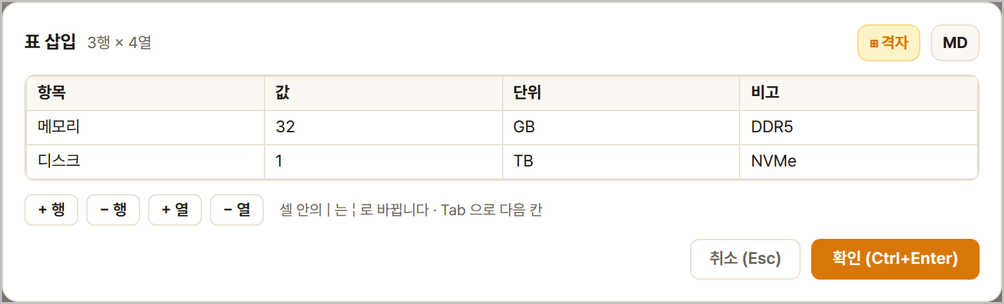
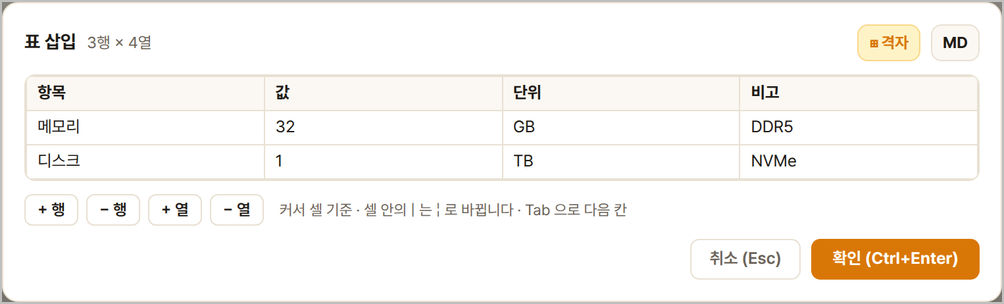
표 팝업: 행·열 추가·삭제를 커서 셀 기준으로 (#505)
* 표 팝업: 행·열 추가·삭제를 커서 셀 기준으로

사용자 요청: +행 = 커서 행 아래에 추가, −행 = 커서 행 삭제, +열 = 커서 열
오른쪽에 추가, −열 = 커서 열 삭제. 셀 onFocus 로 커서를 추적하고 조작 뒤
같은 자리에 포커스를 돌려준다. 머리글 행·마지막 데이터 행·마지막 2열은
지우지 않는다(버튼 비활성 + 툴팁).

- 브라우저 검증 6항목 추가(guide03-table.mjs 19항목) · 가이드 03 문구·캡처
  갱신 · rich-node-content P5 · 카탈로그 e2e271 보강 · 219차

Claude-Session: https://claude.ai/code/session_01PHMCTbMKMt1Nq2yNJHcjEs

* 문서: 카탈로그 e2e271 보강 · 219차

Claude-Session: https://claude.ai/code/session_01PHMCTbMKMt1Nq2yNJHcjEs

* 문서: 카탈로그 차수 220차로 (219차는 e2e272 가 사용)

Claude-Session: https://claude.ai/code/session_01PHMCTbMKMt1Nq2yNJHcjEs

---------

Changed region(s): [[0.2779, 0.6513, 0.6175, 0.7105]]

diff --git a/apps/frontend/src/editor/node-renderer/TableDialog.tsx b/apps/frontend/src/editor/node-renderer/TableDialog.tsx
@@ -206,6 +206,16 @@ export function TableDialog({
   const [mdError, setMdError] = useState<string | null>(null);
   const firstRef = useRef<HTMLInputElement | null>(null);
   const mdRef = useRef<HTMLTextAreaElement | null>(null);
+  // 커서가 있는 셀 — 행·열 추가/삭제의 기준 (r=-1 은 머리글). 2026-09-17
+  // 사용자 요청: +행 = 커서 행 아래, −행 = 커서 행, +열 = 커서 열 오른쪽, −열 = 커서 열
+  const [cursor, setCursor] = useState<{ r: number; c: number }>({ r: -1, c: 0 });
+  const gridRef = useRef<HTMLTableElement | null>(null);
+  const focusCell = (r: number, c: number) => {
+    window.setTimeout(() => {
+      const el = gridRef.current?.querySelector<HTMLInputElement>(`[data-table-cell="${r + 1}x${c + 1}"]`);
+      el?.focus();
+    }, 0);
+  };
 
   useEffect(() => { window.setTimeout(() => firstRef.current?.focus(), 0); }, []);
 
@@ -214,12 +224,35 @@ export function TableDialog({
     if (r < 0) setHeaders(headers.map((h, i) => (i === c ? v : h)));
     else setRows(rows.map((row, i) => (i === r ? row.map((x, j) => (j === c ? v : x)) : row)));
   };
-  const addRow = () => setRows([...rows, Array(cols).fill('')]);
-  const delRow = () => { if (rows.length > 1) setRows(rows.slice(0, -1)); };
-  const addCol = () => { setHeaders([...headers, `열${cols + 1}`]); setRows(rows.map((r) => [...r, ''])); };
+  // 커서 행 아래에 행 추가 (머리글에 있으면 맨 위 데이터 행으로)
+  const addRow = () => {
+    const at = Math.min(rows.length, cursor.r + 1);
+    setRows([...rows.slice(0, at), Array(cols).fill(''), ...rows.slice(at)]);
+    focusCell(at, cursor.c);
+  };
+  // 커서 행 삭제 (머리글·마지막 남은 데이터 행은 지우지 않는다)
+  const canDelRow = cursor.r >= 0 && rows.length > 1;
+  const delRow = () => {
+    if (!canDelRow) return;
+    setRows(rows.filter((_, i) => i !== cursor.r));
+    const nr = Math.min(cursor.r, rows.length - 2);
+    setCursor({ r: nr, c: cursor.c }); focusCell(nr, cursor.c);
+  };
+  // 커서 열 오른쪽에 열 추가
+  const addCol = () => {
+    const at = Math.min(cols, cursor.c + 1);
+    setHeaders([...headers.slice(0, at), `열${cols + 1}`, ...headers.slice(at)]);
+    setRows(rows.map((r) => [...r.slice(0, at), '', ...r.slice(at)]));
+    setCursor({ r: cursor.r, c: at }); focusCell(cursor.r, at);
+  };
+  // 커서 열 삭제 (2열은 남긴다)
+  const canDelCol = cols > TABLE_MIN_COLS;
   const delCol = () => {
-    if (cols <= TABLE_MIN_COLS) return;
-    setHeaders(headers.slice(0, -1)); setRows(rows.map((r) => r.slice(0, -1)));
+    if (!canDelCol) return;
+    setHeaders(headers.filter((_, i) => i !== cursor.c));
+    setRows(rows.map((r) => r.filter((_, i) => i !== cursor.c)));
+    const nc = Math.min(cursor.c, cols - 2);
+    setCursor({ r: cursor.r, c: nc }); focusCell(cursor.r, nc);
   };
 
   // 격자 → MD (원문 보기로 전환)
@@ -278,6 +311,7 @@ export function TableDialog({
       data-table-cell={`${r + 1}x${c + 1}`}
       value={value}
       onChange={(e) => setCell(r, c, e.target.value)}
+      onFocus={() => setCursor({ r, c })}
       placeholder={isHead ? '머리글' : ''}
       style={{
         width: '100%', minWidth: 72, boxSizing: 'border-box', padding: '5px 8px',
@@ -331,7 +365,7 @@ export function TableDialog({
         {view === 'grid' ? (
           <>
             <div style={{ overflow: 'auto', maxHeight: '55vh', border: `1px solid ${t.border}`, borderRadius: 8 }}>
-              <table data-testid="table-dialog-grid" style={{ borderCollapse: 'collapse', width: '100%' }}>
+              <table ref={gridRef} data-testid="table-dialog-grid" style={{ borderCollapse: 'collapse', width: '100%' }}>
                 <thead>
                   <tr style={{ background: t.surfaceAlt ?? 'rgba(0,0,0,0.05)' }}>
                     {headers.map((h, c) => (
@@ -355,12 +389,12 @@ export function TableDialog({
               </table>
             </div>
             <div style={{ display: 'flex', gap: 6, alignItems: 'center' }}>
-              {smallBtn('+ 행', addRow, '맨 아래에 행 추가')}
-              {smallBtn('− 행', delRow, '맨 아래 행 삭제', rows.length <= 1)}
-              {smallBtn('+ 열', addCol, '맨 오른쪽에 열 추가')}
-              {smallBtn('− 열', delCol, '맨 오른쪽 열 삭제', cols <= TABLE_MIN_COLS)}
+              {smallBtn('+ 행', addRow, '커서가 있는 행 아래에 행 추가')}
+              {smallBtn('− 행', delRow, canDelRow ? '커서가 있는 행 삭제' : '머리글 행과 마지막 데이터 행은 지울 수 없습니다', !canDelRow)}
+              {smallBtn('+ 열', addCol, '커서가 있는 열 오른쪽에 열 추가')}
+              {smallBtn('− 열', delCol, canDelCol ? '커서가 있는 열 삭제' : '열은 2개 이상이어야 합니다', !canDelCol)}
               <span style={{ fontSize: 11.5, color: t.textMuted, marginLeft: 6 }}>
-                셀 안의 | 는 ¦ 로 바뀝니다 · Tab 으로 다음 칸
+                커서 셀 기준 · 셀 안의 | 는 ¦ 로 바뀝니다 · Tab 으로 다음 칸
               </span>
             </div>
           </>

diff --git a/docs/05-implementation/test-catalog.md b/docs/05-implementation/test-catalog.md
@@ -122,7 +122,7 @@
 | e2e268 | **여러 중심주제 2단계 — 편집: 중심 추가·끌어 옮기기·삭제·묶기·올리기, 둘째 중심 안의 노드 편집** (2026-09-15, 1단계 #490 후속. 선언 블록 위치·머리말·묶기/올리기의 **세부**는 mmd 표준 세션에서 정하는 중 — 이 PR 의 묶기/올리기는 `mindmap-markdown-alignment.md` A-1 의 문구("하나의 중심주제로 묶기"·"첫 번째 가지를 중심으로 올리기")를 앱 트리 편집으로 구현한 것이고, 표준이 정해지면 세부를 맞춘다) | 구성: `apps/frontend` `src/stores/centers.test.ts` **81항목** — 읽기 헬퍼 11(찾기·깊이·부모·색인·경로·중심 판정·최상위 선택) · 둘째 중심 안의 추가/형제/상위/삭제/일괄/appendChildren 11 · 중심 건너 옮기기 15(child·before·center root·moveNode·다중) · 중심 추가/자리 저장(반올림)/자리 지움/첫 중심 자리 거부/중심 삭제/되돌리기/일괄 삭제 9 · 묶기(첫 중심으로·둘째 중심으로 — 옛 첫 중심은 새 id 가지)·올리기(id 유지·손자·중심 루트 거부·둘째 중심 가지)·되돌리기 20 · 접기/모두 접기·펼치기/좌우/레벨 레이아웃/루트 레이아웃 8 · Codex 지적 3건(레벨 레이아웃 폴백은 그 중심의 가지에서 · 묶기 후 전역 레이아웃 동기화·되돌리기 · 레이아웃 탭 중심 스코프) 7. 기존 `moveNodesRelative.test.ts` 18 · `subtreeCollapse.test.ts` 7 회귀 PASS. 이 세션은 npm 레지스트리 403 이라 global tsc 로 CommonJS 컴파일 + zustand 스텁으로 돌렸다(CI 는 tsx). **브라우저 확인(할 일)**: ① 우상단 툴바 [중심 ▸ ◎] → 오른쪽 빈 자리에 "중심 주제" 가 생기고 선택된다 ② 그 루트를 끌면 드롭존 없이 따라오고 놓은 자리에 남는다(새로고침 후에도) ③ 그 루트의 + 로 가지를 붙이고 첫 중심의 노드를 그 가지 위로 끌어 옮긴다 ④ 1레벨 가지를 고르고 [↑] → 새 중심이 되고 하위가 가지가 된다 ⑤ 중심 루트를 고르고 [⇢] → 중심 하나로 묶인다, Ctrl+Z 로 돌아온다 ⑥ 둘째 중심 루트 + Del → 그 중심째 사라진다. | 08-layout §23.1 · 10-canvas §21.2 |
 | e2e267 | **홈페이지 기능·AI 메뉴 — `/function` · `/ai`** (2026-09-15 사용자 요청: "문구에 AI 를 포함 · 특장점은 6개로 하되 확장성 있게 · 기능(`/function`) 추가", 이어서 "AI 연동은 별도 메뉴로 빼자 — 기능에서는 AI 기능만, `/ai` 에서는 사상·C,D 차이") | 구성: **진짜 nginx**(배포 `nginx.conf` 그대로, SPA 폴백 포함) + **빌드본 dist** + **진짜 크로미움**. **43항목**. **A. 다섯 화면 공통 25** (`/`·`/function`·`/ai`·`/emm`·`/library`) 메뉴 **5개**(홈·기능·AI 연동·mmd 표준·지식창고) · 현재 메뉴 강조(`aria-current`)가 그 페이지 · `h1` 존재 · **콘솔 오류 0** · ★**390px 에서 가로 스크롤 0**(비교표는 `.tablewrap` 안에서만 구른다). **B. `/function` 5** 묶음 **6개** · 항목 **30개** · AI 묶음의 [자세히 보기] 가 `/ai` · **가이드 출처 6줄** · ★**`/function` 본문에 `OAuth`·`PAT`·`emm_` 가 없다**(붙이는 법은 `/ai` 몫이라는 사용자 결정을 글자로 고정한 것) . **C. `/ai` 11** 표 2개(도구 **6행** · 비교 **6행**) · 설명 카드 6장(사상 4 + 앱 안의 AI 2) · 본문에 *맵은 대화의 부산물이 아니라 결과물* · *되돌릴 수 없는 것은 AI 에게 주지 않는다* · *고른다* · *클라이언트* · *무기한* · *폐기* · `create_map` · `check_items`. **D. 길잡이 3** 메뉴 클릭으로 `/function` 이동(새로고침 없이) · [AI 연동 자세히 보기] 클릭으로 `/ai` · 이동 뒤 메뉴 강조도 따라온다. **되돌려 깨지는 것 확인** — `App.tsx` 의 `'/ai'` 줄만 빼고 다시 빌드하면 **10 FAIL**(`/ai` 가 홈으로 떨어진다), 되돌리면 43/43 PASS. **★ 내용은 지어내지 않았다** — `/function` 은 사용자 가이드에 장이 있는 기능만 적고 묶음마다 **어느 장에서 왔는지**를 화면에 적는다. `/ai` 의 도구 6개는 `apps/api/src/mcp/mcp-tools.ts` 의 배열, 사상은 `mcp-connector.md` §2-1·§2-3, C·D 비교표는 §9.2.1 을 옮긴 것이다(그 절에 역참조를 달았다 — 원본은 문서다). **확장성** — 카드 내용은 `src/content/{features,functions}.ts` 에 데이터로 있고 화면은 개수를 세지 않는다(3→2→1열). 항목을 더할 때 손대는 곳은 배열 하나다 | apps/site · 27a-paid-publish.md §0.4 ⑵ · mcp-connector.md §2-1·§2-3·§9.2.1 · e2e264 |
 | e2e272 | **헬스 감시 판정을 jq 로 — `status` 값을 JSON 으로 읽는다** (2026-09-17 사용자 요청 "jq 로 바꿔줘". 이전에는 `grep -q '"status":"ok"'` 문자열 매칭이라 공백 있는 JSON 은 정상인데 degraded 로, 중첩 필드의 `"status":"ok"` 는 degraded 인데 정상으로 잘못 봤다) | 구성: **가짜 헬스 엔드포인트 :3999**(python `http.server`, 경로마다 다른 응답) + `STATE_DIR` 을 임시 디렉터리로 두고 `scripts/health-watch.sh` 를 실제로 돌려 `state=` 출력을 본다. 메일 단계는 이 환경에 docker 가 없어 "메일 설정을 찾지 못했습니다" 로 끝난다(판정은 그 앞에서 끝나므로 무관 — 메일은 e2e153 이 지킨다). **jq 있음 10항목** ①`{"status":"ok"}` → ok ②공백·줄바꿈 있는 JSON → ok ③`status` 가 마지막 키 → ok ④`{"status":"degraded",missingTables}` → degraded ⑤★`{"status":"degraded","checks":{"db":{"status":"ok"}}}` → **degraded**(옛 grep 은 ok 였다) ⑥`status` 없는 JSON → degraded ⑦HTML 200 → degraded ⑧HTTP 503 → down ⑨404 → down ⑩닫힌 포트 → down. **jq 없음(폴백) 8항목** — `env -i PATH=<jq 없는 디렉터리>` 로 돌려 ①~④·⑥~⑧ 같은 결과, ⑤는 **ok**(폴백의 알려진 한계 — 런북 §2.2 에 jq 를 깔라고 적었다). **되돌려 깨지는 것 확인** — `origin/main` 의 옛 스크립트로 같은 서버를 치면 ② → `degraded`(정상인데 알림), ⑤ → `ok`(나쁜데 침묵). 새 스크립트는 둘 다 맞다. `bash -n` 통과 | runbook §2.2 · e2e153 |
-| e2e271 | **노드 표 삽입·수정 팝업 — 툴바 ⊞ 격자 → 표 팝업(격자/MD 보기) → 더블클릭·✎ 수정** (2026-09-17, 사용자 요청: "표도 아이콘으로 추가하여 … 10×10 격자 … 코드블럭 팝업창처럼 표 팝업창 … MD 표 형태로 볼 수 있도록 아이콘") | 구성: 단위 `src/editor/node-renderer/tableDialog.test.ts` **15항목**(emptyTable 최소 2×2 · buildMdTable 셀 정리(`|`→`¦`, 줄바꿈→공백) · spliceMdTable 줄 경계 · replaceMdTable 첫 표만·코드 펜스 안 파이프 무시·없으면 덧붙임 · 파서 왕복) + 브라우저 `scripts/doc-shots/guide03-table.mjs` **13항목**(vite + Playwright, 실제 앱): ① ⊞ → 10×10 격자, 3×4 위에서 라벨 "3행 × 4열" ② 팝업 격자 머리글 1 + 2행 × 4열 ③ MD 보기 원문 = `| 항목 | 값 | 단위 | 비고 |` + 구분선 + 데이터, MD 에서 고친 셀이 격자로 돌아올 때 반영 ④ 확인 → 편집창 원문에 표, 팝업 닫히면 툴바 복귀, 커밋 후 `[data-node-table]` 렌더 ⑤ 표 더블클릭 → "표 수정" 팝업 프리필, 저장 후 노드 표 갱신 ⑥ 편집 중 ⊞ 재클릭(표 있음) → 수정 팝업 ⑦ 아웃라인 보기 `[data-html-table-edit]` ✎ → 팝업 → 저장 → 행 텍스트 반영 ⑧ `{ }` 코드 팝업 → 펜스 삽입 → 코드 패널 렌더(매뉴얼 캡처). **구현** — `TableDialog.tsx`(팝업 + `TableGridPicker` + build/splice/replace/hasMdTable), `MarkToolbar` ⊞ 버튼(`onApply('table', {rows, cols})`, 격자가 편집창 위에 뜨도록 zIndex 30), `NodeRenderer`(tableDlg 상태·blur 가드·표 `<g data-node-table>` 더블클릭 + 투명 히트 rect — 없으면 격자선 사이 더블클릭이 노드 텍스트 편집으로 새어 나갔다), `OutlineEditorPane`(삽입·수정), `RichTextHtml`(✎ → replaceMdTable). **함정** — ⑤ 첫 실행에서 더블클릭이 팝업을 못 열었다: 표 내부는 격자선·글자뿐이라 히트 대상이 없어 아래 노드 박스가 받았다 → 투명 rect. ⑥ 표가 들어간 뒤 노드가 커지자 격자 선택기가 textarea 아래에 깔려 클릭이 막혔다 → 툴바 zIndex. 회귀: 프런트 `tsc -b` · `test:unit`(신규 포함) 통과. **범위 밖** — 칸반 카드 편집 툴바는 예전처럼 코드·체크·표 버튼이 동작하지 않는다(카드에서는 ✎ 로 수정) | rich-node-content §3 P5 · 03-노드-편집 · e2e57~59 · e2e63 |
+| e2e271 | **노드 표 삽입·수정 팝업 — 툴바 ⊞ 격자 → 표 팝업(격자/MD 보기) → 더블클릭·✎ 수정** (2026-09-17, 사용자 요청: "표도 아이콘으로 추가하여 … 10×10 격자 … 코드블럭 팝업창처럼 표 팝업창 … MD 표 형태로 볼 수 있도록 아이콘") | 구성: 단위 `src/editor/node-renderer/tableDialog.test.ts` **15항목**(emptyTable 최소 2×2 · buildMdTable 셀 정리(`|`→`¦`, 줄바꿈→공백) · spliceMdTable 줄 경계 · replaceMdTable 첫 표만·코드 펜스 안 파이프 무시·없으면 덧붙임 · 파서 왕복) + 브라우저 `scripts/doc-shots/guide03-table.mjs` **19항목**(220차에 6 추가)(vite + Playwright, 실제 앱): ① ⊞ → 10×10 격자, 3×4 위에서 라벨 "3행 × 4열" ② 팝업 격자 머리글 1 + 2행 × 4열 ②-b **행·열 버튼은 커서 셀 기준**(220차): 1행 2열에서 +행 → 2행이 빈 행·포커스 2x2, −행 → 그 행 삭제, 머리글 2열에서 +열 → 3열 신설·단위는 4열로, −열 → 삭제, 머리글에 커서면 −행 비활성 ③ MD 보기 원문 = `| 항목 | 값 | 단위 | 비고 |` + 구분선 + 데이터, MD 에서 고친 셀이 격자로 돌아올 때 반영 ④ 확인 → 편집창 원문에 표, 팝업 닫히면 툴바 복귀, 커밋 후 `[data-node-table]` 렌더 ⑤ 표 더블클릭 → "표 수정" 팝업 프리필, 저장 후 노드 표 갱신 ⑥ 편집 중 ⊞ 재클릭(표 있음) → 수정 팝업 ⑦ 아웃라인 보기 `[data-html-table-edit]` ✎ → 팝업 → 저장 → 행 텍스트 반영 ⑧ `{ }` 코드 팝업 → 펜스 삽입 → 코드 패널 렌더(매뉴얼 캡처). **구현** — `TableDialog.tsx`(팝업 + `TableGridPicker` + build/splice/replace/hasMdTable), `MarkToolbar` ⊞ 버튼(`onApply('table', {rows, cols})`, 격자가 편집창 위에 뜨도록 zIndex 30), `NodeRenderer`(tableDlg 상태·blur 가드·표 `<g data-node-table>` 더블클릭 + 투명 히트 rect — 없으면 격자선 사이 더블클릭이 노드 텍스트 편집으로 새어 나갔다), `OutlineEditorPane`(삽입·수정), `RichTextHtml`(✎ → replaceMdTable). **함정** — ⑤ 첫 실행에서 더블클릭이 팝업을 못 열었다: 표 내부는 격자선·글자뿐이라 히트 대상이 없어 아래 노드 박스가 받았다 → 투명 rect. ⑥ 표가 들어간 뒤 노드가 커지자 격자 선택기가 textarea 아래에 깔려 클릭이 막혔다 → 툴바 zIndex. 회귀: 프런트 `tsc -b` · `test:unit`(신규 포함) 통과. **범위 밖** — 칸반 카드 편집 툴바는 예전처럼 코드·체크·표 버튼이 동작하지 않는다(카드에서는 ✎ 로 수정) | rich-node-content §3 P5 · 03-노드-편집 · e2e57~59 · e2e63 |
 | e2e270 | **지식창고 검색 — 이름뿐 아니라 맵 내용까지** (2026-09-17 사용자 요청: "지식창고는 내 문서함의 검색처럼 검색창을 추가하고, 검색하면 맵 이름뿐만 아니라 맵 내용에도 검색 내용이 있으면 검색에 포함하도록") | 구성: **진짜 PostgreSQL 16**(schema.sql + listed 델타) + **진짜 빌드본 API** + **진짜 nginx**(배포 `nginx.conf`) + **빌드본 dist** + **진짜 크로미움**. **총 99항목** = 서버 34 + 화면 31 + 여백 15 + 단위 19. **씨앗** — 저자 한 명, 상태가 다른 맵 8개(진열 4 · **안 나와야 할 것 4**: 비공개(보관)·진열 안 함·등록 취소·휴지통). 안 나와야 할 넷은 이름과 내용에 **일부러 검색어를 심었다**. **A. 서버 34** ① 검색 없으면 진열된 4개 + `matchCount` 없음 ② `q=회의` → 이름이 맞은 A + **내용만 맞은 B**(건수 3·1) ③ ★**새지 않는다** — 안 나와야 할 넷을 **검색어 2개 × 4맵 = 8번** 확인 ④ 응답에 색인 평문이 없고 주는 칸은 6개뿐 ⑤ `_`·`%` 가 패턴이 아니라 글자다 ⑥ 영문 대소문자 무시 · 공백뿐이면 검색 아님 ⑦ **검색 중에도 커서 페이지네이션**(두 쪽 합 = 한 번에 받은 것) ⑧ 거친 입력 5종(300자·패턴 문자만·**NUL**·HTML·SQL 조각) 모두 200 + 0줄 ⑨ 찾은 맵은 그 주소로 열리고, 비공개 맵 주소는 여전히 404. **B. 화면 31** 검색창·안내 문구 · 이름 강조(`<mark>`) · **내용 건수 뱃지**(`내용 3건`) · `?q=` 가 주소에 남고 그 주소를 새로 열면 같은 결과 · 못 찾았을 때 문구가 "아직 진열된 맵이 없습니다" 와 **다르다** · [전체 보기]·✕ 로 복귀 · ★ 안 나와야 할 넷이 **화면에도** 없다(검색어 5개) · **늦게 온 옛 답이 새 결과를 덮지 않는다**(빠른 타자) · 390px 가로 넘침 0. **C. 여백 15** 다섯 화면(`/`·`/function`·`/ai`·`/mmd`·`/library`) × 좌·우 여백 ≥16px · 가로 넘침 0. **D. 단위 19** `common/search-term.ts` — 제어문자 제거 · 공백/빈 말 · 100자 자르기 · ILIKE 이스케이프. **함정** — 그 파일의 제어문자 판정을 처음에 `/[\u0000-\u001F\u007F]/` 로 적었더니 편집 도구를 거치며 **이스케이프가 그 문자 자체로** 바뀌어 소스에 진짜 NUL 이 들어갔다(시험은 통과했지만 git 이 `Bin 0 -> 2326 bytes` 로 보았다). 코드포인트 비교(`c < 0x20 || c === 0x7f`)로 바꿔 그럴 자리를 없앴다 — e2e267 의 `\u3000` 과 같은 사고다. **되돌려 깨지는 것 확인** — `listListed` 가 `q` 를 무시하게 되돌리면 서버 34항목 중 **16 FAIL**, 되돌리면 34/34. **★ 고친 버그 둘 (둘 다 원래 있던 것)** ⑴ **NUL 한 글자로 500** — `?q=a%00b` 가 PostgreSQL `22021` 로 질의를 터뜨렸다. 지식창고 검색은 **비인증**이라 누구나 보낼 수 있었고, **문서함 검색도 같았다**(실측). 다듬는 규칙을 `common/search-term.ts` 한 벌로 모아 `MapsService.list`·`listShared`·`PublishService.listListed` 가 함께 쓴다 — 검색은 세 곳이지만 규칙은 한 벌이어야 한다. ⑵ **휴대폰에서 글이 화면 끝에 붙었다** — `.wrap` 과 겹쳐 쓴 칸(`hero`·`head`·`band`·`cta`)이 `padding: 44px 0 20px` 로 `.wrap` 의 좌우 20px 를 함께 지우고 있었다. 데스크톱에서는 `max-width` 로 가운데 정렬돼 안 보였고, e2e267 이 **가로 넘침만** 재서 통과했다 — 넘치지 않아도 붙어 있을 수 있다. 위아래만 주도록 고쳤다(다섯 화면 전부). **회귀** — API `test:og`·`test:table-ready`·`test:version-prune`·`test:schema-degrade`·`smoke` 전부 통과. `test:mcp` 의 `스텁: PRO_INSTALLED=false` 1건은 **내 변경을 치워도 실패한다**(이 환경 문제 · CI 에서는 통과). | api-spec.md GET /published · 27a-paid-publish.md §0.4 ⑵·⑶ · e2e264 · e2e267 |
 | e2e263 | **여러 줄 노드·블록 노드 MD 왕복 — 줄바꿈·인용문이 사라지지 않고 코드 노드가 깊어지지 않는다** (2026-09-15, 사용자 지적: "##8 하위는 원본은 줄바꿈되어 있는데 변환된 MD 는 한 줄", "인용문 표시도 사라졌다") | 구성: `packages/emm-parser` `test/node-lines.test.ts` **19항목** + `apps/frontend` `src/utils/importMapFile.test.ts` 에 **4항목** 추가(합계 16, Vite SSR 러너). **버그 ①** — 견출 아래 `>` 인용문은 'node' 배치에서 그 노드의 추가 줄이 되는데, 내보내기 `splitNodeBody` 가 첫 블록 앞의 줄을 모두 공백으로 이어 **한 줄 견출**로 써서 왕복 뒤 줄바꿈·인용문 표시가 사라졌다(앱은 메타데이터로 복원하지만 MD 본문은 손실). **버그 ②** — 코드 펜스로 시작하는 노드는 라벨 `### 코드` 를 견출로 써서 다시 읽으면 "코드" 노드가 끼어들어 왕복마다 한 단계 깊어졌다. **고침** — `serialize.ts`: 제목은 첫 줄, 나머지 줄은 제목 아래 `>` (빈 줄은 `>` 만, 행 끝 공백 없음); 루트만 `singleLine` 으로 예전처럼. 블록으로 시작하는 잎 노드(하위·노트·링크·사진 없음, depth>1)는 제목 줄 없이 블록만(`labelTitle`). `nodeHeadingText` 는 첫 줄이 되지만 옛 한 줄 파일도 `flatKey` 폴백으로 메타데이터와 짝지어진다(프런트 시험). **확인** — ① 견출+인용문(빈 줄 포함) 왕복 뒤 글자·트리 동일, 두 번 왕복 파일 동일 ② Shift+Enter 여러 줄(견출·리스트 항목) ③ 코드 펜스 잎 노드 라벨 없음·두 번 왕복 동일 ④ 표 잎 노드 ⑤ 하위 있는 블록 노드는 라벨 유지(예전 동작, 알려진 한계) ⑥ 가지는 라벨 유지 ⑦ 루트 한 줄. 사용자 시험 파일(`빈노드-불러오기-테스트.md`, 8절) 전체 왕복: 글자(줄바꿈 포함)·트리 동일, 두 번 왕복 동일. 회귀: 적합성 13/13(스냅숏 변화 없음) · 파서 단위 187 · API `test:mcp` 통과 · `sync:emm --check` 일치 · 프런트 `tsc -b` 통과. **알려진 한계** — 'note' 배치에서는 `>` 가 노트가 된다(예전과 같음). 블록으로 시작하고 하위가 있는 노드는 라벨 아래에 블록·하위가 형제로 읽힌다(앱은 메타데이터로 복원) | markdown-export §2 · e2e261 · e2e262 |
 
@@ -433,6 +433,9 @@
 > 겹쳐 보이지만 날짜와 함께 읽으면 유일하다. **고치지 말 것** — 그때의
 > 기록을 지금 규칙으로 고쳐 쓰면 없던 역사를 만드는 셈이다.
 
+- 2026-09-17 (220차): **e2e271 보강 — 표 팝업의 행·열 버튼을 커서 셀 기준으로**
+  (사용자 요청: +행=커서 행 아래 · −행=커서 행 · +열=커서 열 오른쪽 · −열=커서
+  열). 브라우저 6항목 추가(19), 가이드 03 문구·캡처 갱신.
 - 2026-09-17 (219차): **e2e272 — 헬스 감시 판정을 jq 로**. `health-watch.sh`
   가 `/v1/health` 의 `status` 를 문자열 grep 이 아니라 `jq -r .status` 로
   읽는다(jq 가 없으면 공백 허용 grep 폴백). 가짜 엔드포인트로 jq 있음 10 ·

diff --git a/docs/04-extensions/rich-node-content.md b/docs/04-extensions/rich-node-content.md
@@ -79,7 +79,7 @@ mmd 왕복: 블록 노드는 종류 라벨 견출(`표`/`코드`) + MD 블록으
 | P2 | ✅ **완료(2026-07)** — 노드 체크박스 렌더 + 클릭 토글. `mdCheck.ts`(체크 줄 파서·글리프 폭·원문 토글·마커 삽입) + sizeNodeForText(마커 제거·글리프 폭만큼 좁게 줄바꿈·폭 예약) + NodeRenderer(글리프 렌더·클릭=원문 `[ ]↔[x]` 토글, 항목 전 줄 들여쓰기) + 미니 툴바 ☑ 버튼(커서 줄 `- [ ] ` 토글, 맵·아웃라인 공용) + 뷰어 파리티(에디터가 계산한 래핑 줄 범위를 `pos.ck`로 베이크 — 뷰어는 읽기 전용 렌더). 코드 펜스 안의 `- [ ]` 줄은 체크로 취급하지 않음. 검증 e2e60 | 중 |
 | P3 | ✅ **완료(2026-07)** — MD 불러오기 배치 옵션 + A4 제한. `parseMarkdownToMap(md, title, { blockPlacement, stats })`: `'node'`면 인용문·코드 펜스·표·`- [x]`를 해당 위치 **노드 본문**에(펜스/파이프/체크 줄 그대로 — P1·P2 렌더가 그림), A4(2,500자·이미지 600자 환산) 초과 블록은 노트로 이동 + `stats.movedToNote`. **파서 기본은 `note`(하위 호환 — 적합성 코퍼스·parseEmm·mmd 왕복 유지), 앱 불러오기 UI 기본이 `node`**. EasyMindMap MD(메타데이터)는 항상 `note`(enrich 매칭 보호). UI: 새 맵 패널 "MD 블록 배치" 라디오(기억) + "A4 분량을 넘어 블록 N개를 노트로 옮겼습니다" 안내. 규칙 상세: markdown-export.md §1.0. 검증 e2e61 | 중 |
 | P4 | ✅ **완료(2026-07)** — 아웃라인·칸반·검색 표시 정합. 공용 `RichTextHtml.tsx`: `NodeRichText`(HTML 리치 렌더 — 코드 펜스=모노 패널(언어 라벨), `- [x]`=체크 글리프(**클릭 = 원문 토글**), 파이프 표=격자, 인라인 마크 고정색) + `flattenNodeText`(한 줄 요약 — 마커 대신 ☑/☐·⧉코드·⊞표). 적용: 아웃라인 행·칸반 카드/컬럼 헤더(NodeRichText), 에디터/뷰어 검색 결과 제목·경로, 뷰어 아웃라인 행, 인스펙터 선택 노드 요약(flatten). 검증 e2e63 | 소~중 |
-| P5 | ✅ **완료(2026-09-17)** — **표 팝업 편집기**(`TableDialog.tsx`, 코드의 CodeBlockDialog 와 같은 사용감). 툴바 ⊞ → `TableGridPicker`(10×10 격자, 최소 2×2) → 격자 크기의 빈 표를 커서 자리에 `spliceMdTable`, 팝업에서 셀 입력(머리글 강조 · `+/−` 행·열 · Tab 이동) · **⊞ 격자 ↔ MD 원문 보기 토글**(상단 맵/아웃라인 토글과 같은 모양, MD 는 `parseMdTable` 로 다시 읽어 격자에 반영). 수정 = 캔버스 표 더블클릭(`data-node-table`, 투명 히트 rect) · 편집 중 ⊞(표가 이미 있으면 `mode:'edit'`) · 아웃라인/칸반 표 ✎(`data-html-table-edit`, `RichTextHtml`) → `replaceMdTable`(코드 펜스 밖 첫 표만). 저장은 항상 `buildMdTable` 로 정규화(셀 `\|`→`¦`, 줄바꿈→공백). blur 커밋 경합 가드 `tableDlgRef` (코드와 동일). — e2e271 | 중 |
+| P5 | ✅ **완료(2026-09-17)** — **표 팝업 편집기**(`TableDialog.tsx`, 코드의 CodeBlockDialog 와 같은 사용감). 툴바 ⊞ → `TableGridPicker`(10×10 격자, 최소 2×2) → 격자 크기의 빈 표를 커서 자리에 `spliceMdTable`, 팝업에서 셀 입력(머리글 강조 · `+/−` 행·열은 **커서 셀 기준**(+행=아래, −행=그 행, +열=오른쪽, −열=그 열; 머리글·마지막 행·2열 보호) · Tab 이동) · **⊞ 격자 ↔ MD 원문 보기 토글**(상단 맵/아웃라인 토글과 같은 모양, MD 는 `parseMdTable` 로 다시 읽어 격자에 반영). 수정 = 캔버스 표 더블클릭(`data-node-table`, 투명 히트 rect) · 편집 중 ⊞(표가 이미 있으면 `mode:'edit'`) · 아웃라인/칸반 표 ✎(`data-html-table-edit`, `RichTextHtml`) → `replaceMdTable`(코드 펜스 밖 첫 표만). 저장은 항상 `buildMdTable` 로 정규화(셀 `\|`→`¦`, 줄바꿈→공백). blur 커밋 경합 가드 `tableDlgRef` (코드와 동일). — e2e271 | 중 |
 
 각 단계는 독립 PR로, mmd 왕복·뷰어 파리티 E2E와 함께 진행.
 

diff --git a/docs/user-guide/03-노드-편집.md b/docs/user-guide/03-노드-편집.md
@@ -248,8 +248,10 @@
 <img src="assets/03-table-grid.png" width="420" alt="툴바의 ⊞ 를 눌러 펼친 10×10 격자 — 3행 × 4열까지 노란색으로 골라진 상태">
 
 - **표 팝업** — 셀을 직접 입력합니다(Tab 으로 다음 칸). `+ 행` `− 행` `+ 열`
-  `− 열` 로 크기를 바꿀 수 있고, **확인(Ctrl+Enter)** 을 누르면 노드에
-  들어갑니다. 셀 안의 `|` 는 `¦` 로 바뀝니다(파이프는 열 구분자라서).
+  `− 열` 은 **커서가 있는 셀 기준**입니다 — `+ 행` 은 그 행 아래에, `− 행` 은
+  그 행을, `+ 열` 은 그 열 오른쪽에, `− 열` 은 그 열을 (머리글 행과 마지막
+  데이터 행, 마지막 2열은 지울 수 없습니다). **확인(Ctrl+Enter)** 을 누르면
+  노드에 들어갑니다. 셀 안의 `|` 는 `¦` 로 바뀝니다(파이프는 열 구분자라서).
 
 <img src="assets/03-table-dialog.png" width="560" alt="표 삽입 팝업 — 격자 보기: 머리글 항목·값·단위·비고와 데이터 2행, 아래에 + 행 − 행 + 열 − 열 버튼">
 
